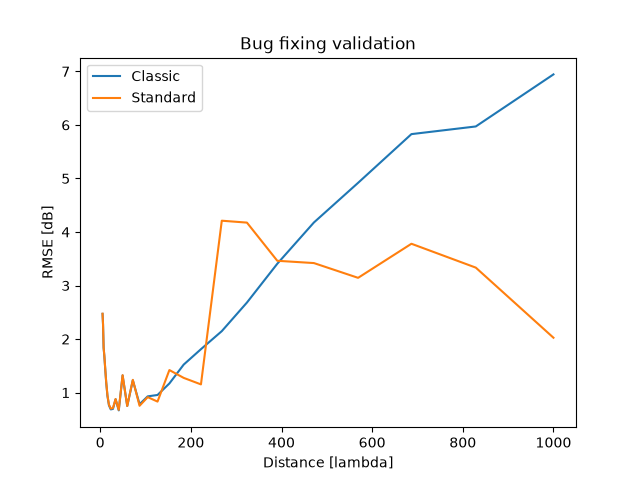
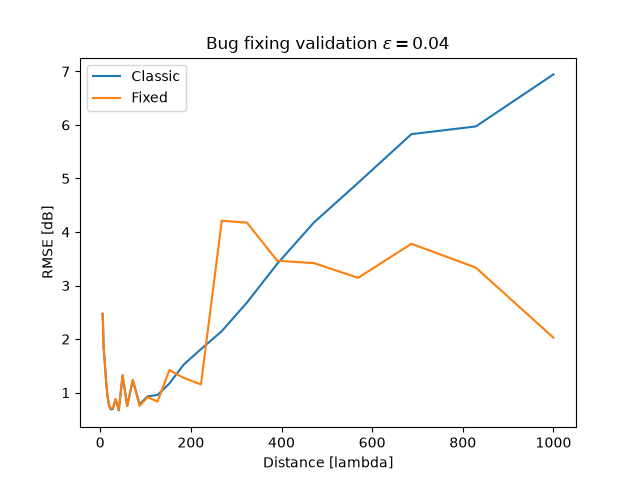
Mobile trashold for shadow bounderies

Changed region(s): [[0.3125, 0.0625, 0.7188, 0.125], [0.1875, 0.1875, 0.3125, 0.2188]]

diff --git a/simulate_dev.py b/simulate_dev.py
@@ -64,7 +64,7 @@ print(f"fc: {fc}")
 print(f"lamda: {lamda}")
 
 cylinder_radius_lamda = 12.8
-nu = 12
+nu = 8
 
 cylinder_radius = cylinder_radius_lamda * lamda
 print(f"cylinder_radius: {cylinder_radius}")
@@ -155,7 +155,7 @@ RMSE_result = []
 
 #=========================================== SIMULATION =====================================================#
 
-circle_radius = cylinder_radius + lamda*np.array([100,200,1500,2e3])
+circle_radius = cylinder_radius + lamda*np.array([100,200,300,500,1500,2e3])
 
 results = []
 analytical = []
@@ -391,11 +391,11 @@ import pandas as pd
 
 df_res = pd.DataFrame(results)
 df_res.index = circle_radius
-df_res.to_csv("amplitudes_dev.csv")
+#df_res.to_csv("amplitudes_dev.csv")
 
 df_an = pd.DataFrame(analytical)
 df_an.index = circle_radius
-df_an.to_csv("analytical.csv")
+#df_an.to_csv("analytical.csv")
 
 coloumns = ["distance_in_lamda", "RMSE"]
 df = pd.DataFrame(RMSE_result)

diff --git a/RMSE_results/LENGHT_of_cylinder_analysis/12.8/12/plot_DEV.py b/RMSE_results/LENGHT_of_cylinder_analysis/12.8/12/plot_DEV.py
@@ -2,17 +2,17 @@ import pandas as pd
 import matplotlib.pyplot as plt
 
 df0 = pd.read_csv("./LONG_LONG_RESULTS_12_12.8.csv")
-df1 = pd.read_csv("./DEV2_RESULTS_12_12.8.csv")
+df1 = pd.read_csv("./DEV3_RESULTS_12_12.8.csv")
 
 df = pd.DataFrame()
 df["Classic"] = df0["RMSE"]
-df["Standard"] = df1["RMSE"]
+df["Fixed"] = df1["RMSE"]
 df.index = df0["distance_in_lamda"]
 
 plt.plot(df)
-plt.title(r"Bug fixing validation")
+plt.title(r"Bug fixing validation mobile $\epsilon$")
 plt.xlabel("Distance [lambda]")
 plt.ylabel("RMSE [dB]")
 plt.legend(df.columns)
-plt.savefig("bug_fixed2.png")
+plt.savefig("bug_fixed3.png")
 plt.show()

diff --git a/simulate_loop.py b/simulate_loop.py
@@ -63,7 +63,7 @@ print(f"lamda: {lamda}")
 #CYLINDER_RADIUS_LAMDA_list = [10, 12.8, 15.9, 19, 22.3, 25.6]
 #NU_list = [6, 8, 12, 17]
 
-CYLINDER_RADIUS_LAMDA_list = [12.8]
+CYLINDER_RADIUS_LAMDA_list = [25.6]
 NU_list = [12]
 
 for cylinder_radius_lamda in CYLINDER_RADIUS_LAMDA_list: 
